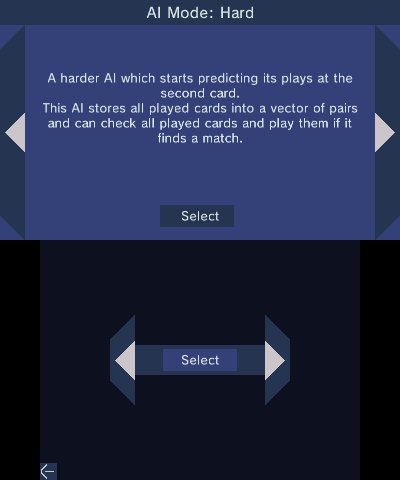
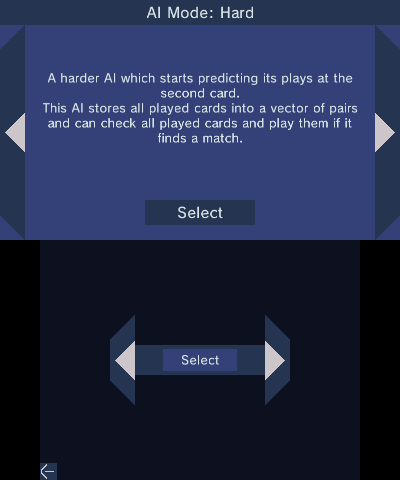
AI Selector: Larger Select button on top.

Changed region(s): [[0.36, 0.4062, 0.66, 0.5]]

diff --git a/3ds/source/Overlays/Selectors/AISelector.cpp b/3ds/source/Overlays/Selectors/AISelector.cpp
@@ -104,7 +104,7 @@ StackMem::AIMethod AISelector::Action() {
 		GFX::DrawCornerEdge(true, this->Positions[0].X, this->Positions[0].Y, this->Positions[0].H, this->Mode > 0);
 		GFX::DrawCornerEdge(false, this->Positions[1].X, this->Positions[1].Y, this->Positions[1].H, this->Mode < 2);
 		Gui::Draw_Rect(this->Positions[2].X, this->Positions[2].Y, this->Positions[2].W, this->Positions[2].H, BAR_BLUE);
-		Gui::DrawStringCentered(0, this->Positions[2].Y + 3, 0.5f, TEXT_WHITE, Lang::Get("SELECT"));
+		Gui::DrawStringCentered(0, this->Positions[2].Y + 3, 0.6f, TEXT_WHITE, Lang::Get("SELECT"));
 
 		Pointer::Draw();
 		if (_3DZwei::CFG->DoAnimation() && _3DZwei::CFG->DoFade()) {

diff --git a/3ds/include/Overlays/Selectors/AISelector.hpp b/3ds/include/Overlays/Selectors/AISelector.hpp
@@ -56,7 +56,7 @@ private:
 	const std::vector<FuncCallback> Positions = {
 		{ 0, 25, 25, 215, [this]() { this->PrevMode(); } },
 		{ 375, 25, 25, 215, [this]() { this->NextMode(); } },
-		{ 160, 205, 74, 22, [this]() { this->OK(); } }
+		{ 145, 200, 110, 25, [this]() { this->OK(); } }
 	};
 
 	const std::vector<FuncCallback> BottomPos = {
